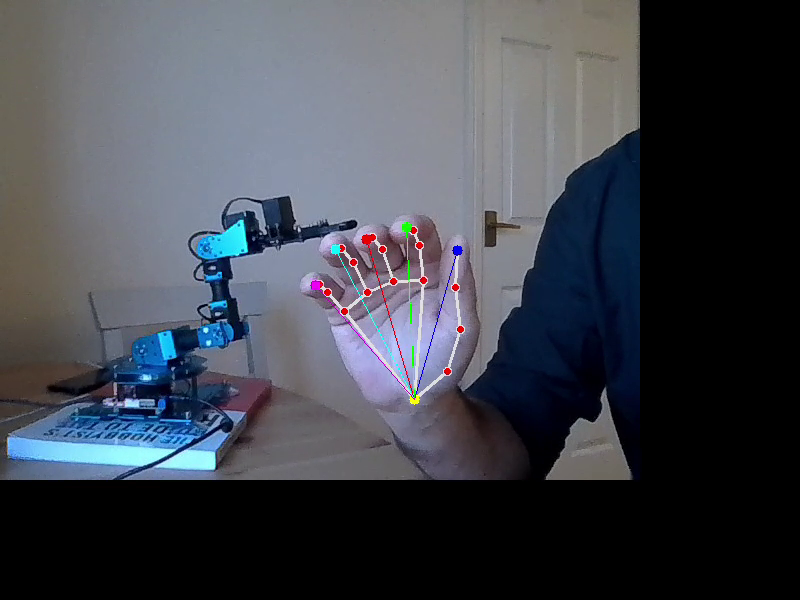
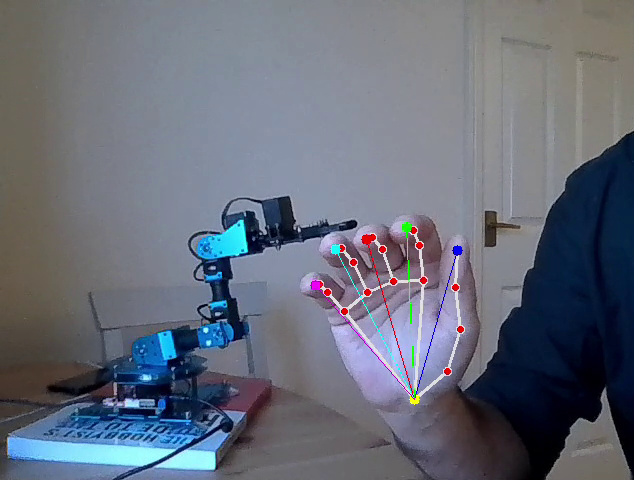
Updating README.md and screenshot.png

diff --git a/README.md b/README.md
@@ -2,3 +2,25 @@
 Controlling the Hiwonder xArm1S robotic arm with hand gestures in Python
 
 ![Screenshot](https://github.com/James-P-D/RobotArmGestures/blob/main/screenshot.gif)
+
+## Introduction
+
+A very quick (and not totally successful) attempt at using hand gestures to control the off-the-shelf xArm robotic arm.
+
+## Usage
+
+After pluggin in your xArm, the application will continuously display the message `Waiting for single hand..` until your hand is visible from the camera. Once the hand has been detected the message `Stretch hand for X more seconds..` during which time you should stretch your fingers as far and wide as you can. Once the timer has completed the message `Clench hand for X more seconds..` during which you should clench your fist as tightly as possible.
+
+Once this second timer has completed, you will either be told the program was unable to calibrate the measurements and you will have to repeat the process again, or you will be presented with a message stating `Relax hand for X more seconds..` at which point you should rest your fingers at the mid-point between stretch and clench.
+
+You can now  
+* Pan hand left and right to rotate the robot arm
+* Thumb to open and close pincers
+* Index finger  to rotate the pincer
+* Middle finger to flex the wrist
+* Ring finger to flex the elbow
+* Pinkie to flex the shoulder
+
+## Warning
+
+The program works, but make sure you have your xArm on a flat surface and that it is secured. If the suction pads at the base of the robot arm are not secured properly you may find minor movements of your fingers cause the arm to move quickly and topple over!
